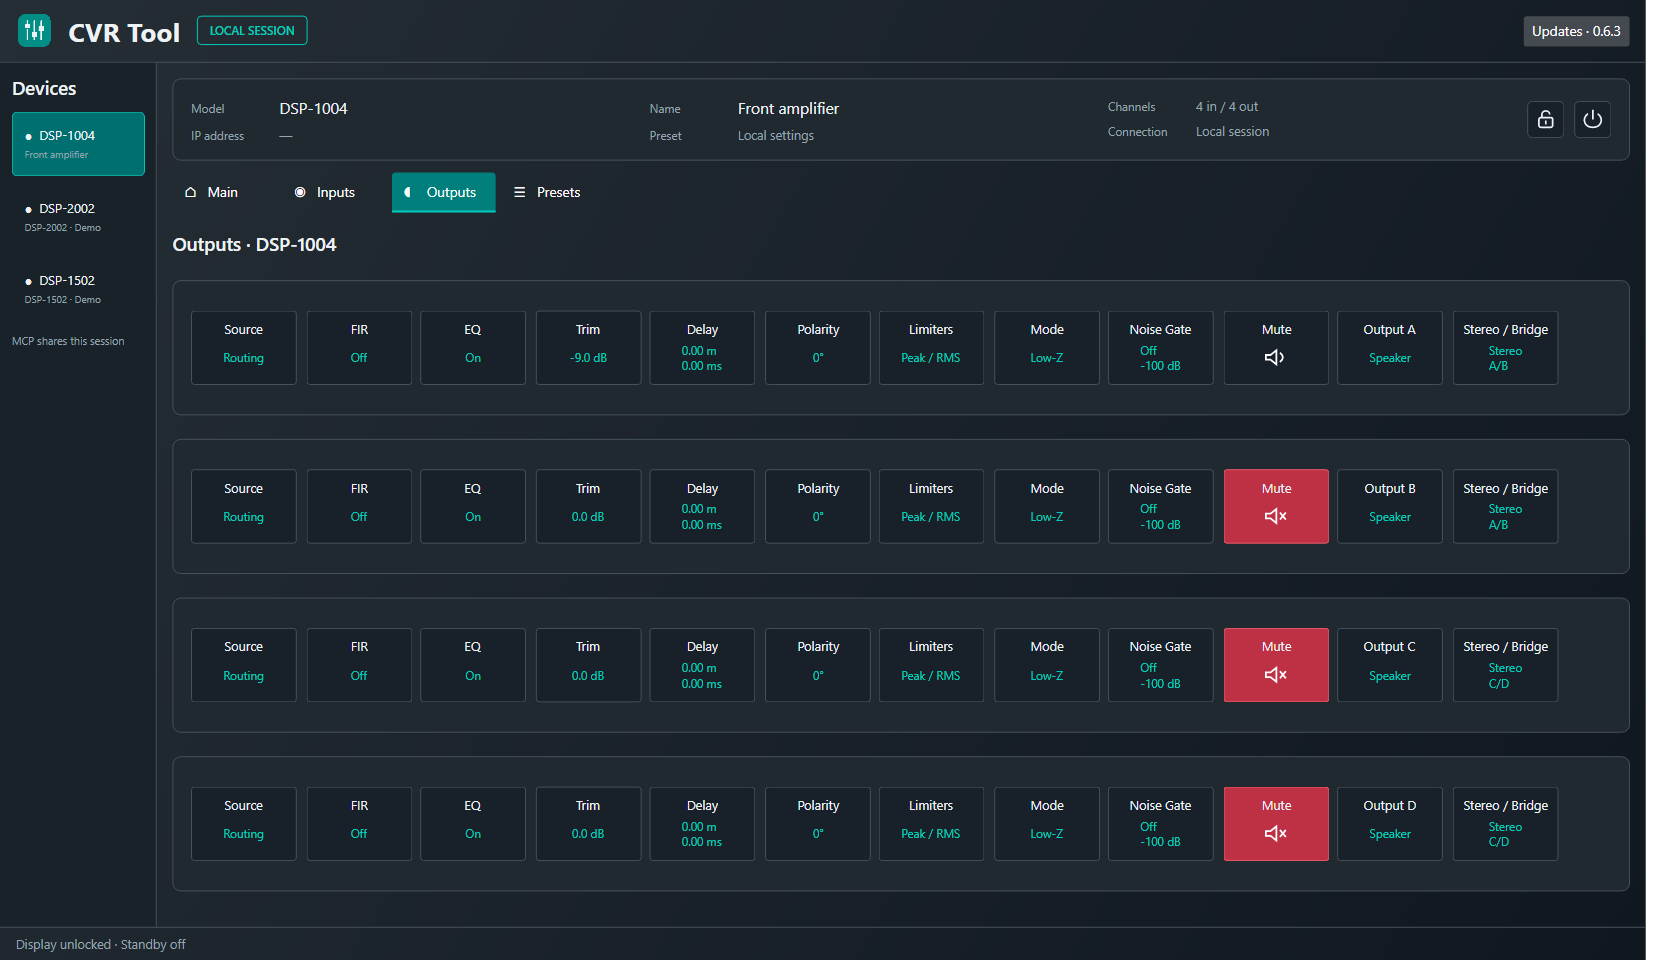
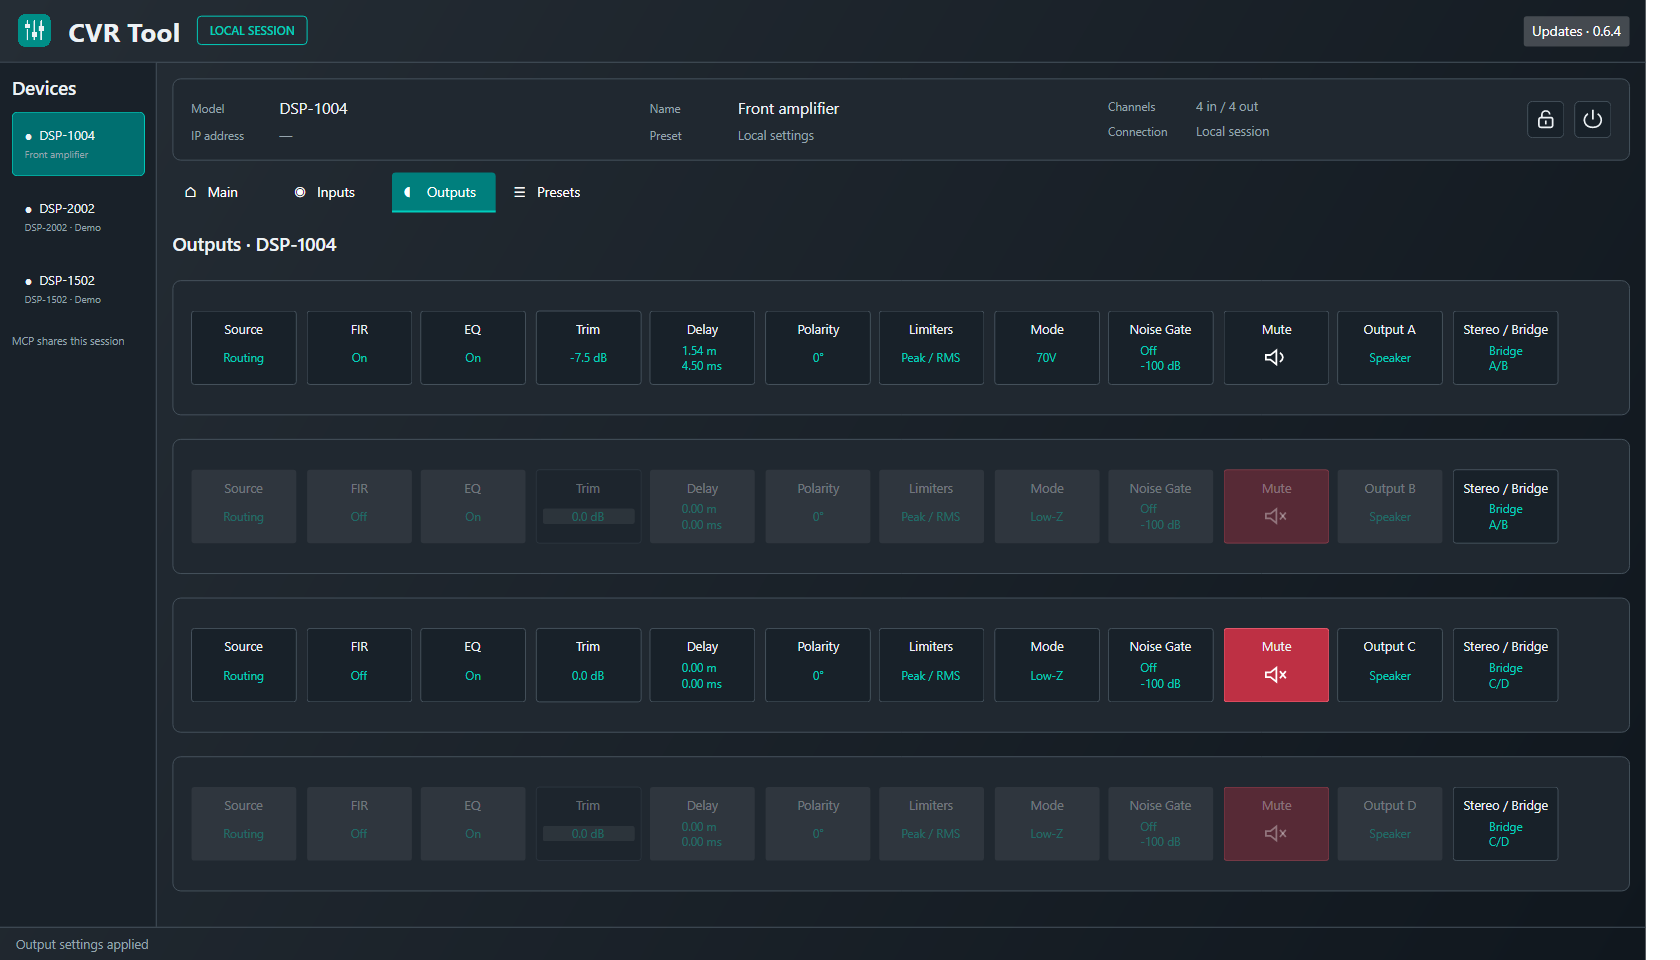
Toggle bridge directly and disable the paired follower output controls

diff --git a/tests/CvrTool.DesktopChecks/Program.cs b/tests/CvrTool.DesktopChecks/Program.cs
@@ -150,15 +150,22 @@ modeEditor.GetLogicalDescendants().OfType<Button>().Single(b=>b.Tag?.ToString()=
 var dynamicsPreset=Preset();Check(dynamicsPreset.Dynamics![0].LoadMode==1 && dynamicsPreset.Dynamics[1].LoadMode==0 && !dynamicsPreset.Dynamics[0].Bridged,"Mode edits affect one output without switching bridge");
 Click("◖   Outputs");
 Check(Math.Abs(Tagged<Border>("output-trim-A").Bounds.Height-76)<.1 && Math.Abs(Tagged<ToggleButton>("mute-editor-A").Bounds.Height-76)<.1 && Math.Abs(Tagged<ToggleButton>("mute-editor-A").Bounds.Width-Tagged<Button>("output-mode-A").Bounds.Width)<1.1,"Trim and symbol-only mute align with the output blocks");
-Press(Tagged<Button>("output-bridge-A"));var bridgeEditor=window.OwnedWindows.Single();Press(Tagged<Button>("output-bridge-B"));
-Check(window.OwnedWindows.Count==1 && ReferenceEquals(bridgeEditor,window.OwnedWindows.Single()),"A/B share one stereo/bridge editor");
-bridgeEditor.GetLogicalDescendants().OfType<ComboBox>().Single(c=>c.Tag?.ToString()=="output-bridge-choice").SelectedIndex=1;
-bridgeEditor.GetLogicalDescendants().OfType<Button>().Single(b=>b.Tag?.ToString()=="apply-output-bridge").RaiseEvent(new RoutedEventArgs(Avalonia.Controls.Button.ClickEvent));Layout();
+Press(Tagged<Button>("output-mode-B"));Check(window.OwnedWindows.Count==1,"Secondary output editor can be opened in stereo");
+Press(Tagged<Button>("output-bridge-A"));
+Check(window.OwnedWindows.Count==0,"Bridge toggles directly without a popup and closes the follower editor");
 var bridgePreset=Preset();Check(bridgePreset.Dynamics![0].Bridged && bridgePreset.Dynamics[1].Bridged && !bridgePreset.Dynamics[2].Bridged && bridgePreset.Dynamics[0].LoadMode==1,"Bridge updates A/B together, preserves C/D and retains load mode");
-Click("◖   Outputs");Press(Tagged<Button>("output-bridge-D"));bridgeEditor=window.OwnedWindows.Single();
-bridgeEditor.GetLogicalDescendants().OfType<ComboBox>().Single(c=>c.Tag?.ToString()=="output-bridge-choice").SelectedIndex=1;
-bridgeEditor.GetLogicalDescendants().OfType<Button>().Single(b=>b.Tag?.ToString()=="apply-output-bridge").RaiseEvent(new RoutedEventArgs(Avalonia.Controls.Button.ClickEvent));Layout();
-Check(Preset().Dynamics!.All(d=>d.Bridged),"C/D stereo/bridge editor operates its own pair");
+Click("◖   Outputs");
+bool OutputControlsEnabled(string channel)=>Tagged<Grid>("output-flow-"+channel).Children.Where(c=>Grid.GetColumn(c)<11).All(c=>c.IsEnabled && c.Opacity==1);
+bool OutputControlsDisabled(string channel)=>Tagged<Grid>("output-flow-"+channel).Children.Where(c=>Grid.GetColumn(c)<11).All(c=>!c.IsEnabled && c.Opacity<.5);
+Check(OutputControlsDisabled("B") && OutputControlsEnabled("A") && OutputControlsEnabled("C") && OutputControlsEnabled("D"),"Bridge greys and disables only the second output in A/B");
+Check(Tagged<Button>("output-bridge-B").IsEnabled,"Follower bridge switch remains clickable");
+Press(Tagged<Button>("output-bridge-B"));
+Check(window.OwnedWindows.Count==0 && OutputControlsEnabled("B"),"Clicking the follower bridge switch restores stereo and its controls without a popup");
+Check(!Preset().Dynamics![0].Bridged,"Direct bridge toggle restores the paired stereo state");
+Click("◖   Outputs");Press(Tagged<Button>("output-bridge-A"));Press(Tagged<Button>("output-bridge-D"));
+Check(OutputControlsDisabled("B") && OutputControlsDisabled("D") && OutputControlsEnabled("A") && OutputControlsEnabled("C"),"A/B and C/D independently disable their second outputs");
+Check(window.OwnedWindows.Count==0,"Neither bridge pair opens a popup");Save("outputs-bridge-followers");
+Check(Preset().Dynamics!.All(d=>d.Bridged),"C/D stereo/bridge switch operates its own pair");
 Click("◖   Outputs");
 Tagged<ToggleButton>("mute-editor-A").IsChecked=true;Layout();
 Check(Preset().Outputs[0].Muted,"Styled output mute still commits immediately");

diff --git a/src/CvrTool.Desktop/OutputDynamicsEditors.cs b/src/CvrTool.Desktop/OutputDynamicsEditors.cs
@@ -45,30 +45,23 @@ public sealed partial class MainWindow
         ShowInputEditor(editor, editedId, channel, "mode");
     }
 
-    private void OpenBridgeEditor(int channel)
+    private void ToggleBridge(int channel)
     {
         var pairStart = (channel - 1) / 2 * 2 + 1;
-        var editedId = deviceId;
-        if (ActivateInputEditor(editedId, pairStart, "bridge"))
-            return;
-        var original = service.GetOutputDynamics(editedId, pairStart);
-        var panel = new StackPanel { Margin = new Thickness(24), Spacing = 16 };
-        panel.Children.Add(Heading($"Stereo / Bridge · Outputs {(char)('A' + pairStart - 1)}/{(char)('A' + pairStart)}"));
-        var choice = new ComboBox { ItemsSource = new[] { "Stereo", "Bridge" }, SelectedIndex = original.Bridged ? 1 : 0, HorizontalAlignment = HorizontalAlignment.Stretch, Tag = "output-bridge-choice" };
-        panel.Children.Add(choice);
-        panel.Children.Add(Text("Applies to both outputs in this pair.", 12, Muted));
-        var message = Text("", 12, Muted);
-        panel.Children.Add(message);
-        var actions = new StackPanel { Orientation = Orientation.Horizontal, Spacing = 10 };
-        var apply = new Button { Content = "Apply", Tag = "apply-output-bridge" };
-        var cancel = new Button { Content = "Cancel" };
-        actions.Children.Add(apply);
-        actions.Children.Add(cancel);
-        panel.Children.Add(actions);
-        var editor = EditorWindow("Output stereo / bridge", panel, 480, 310);
-        apply.Click += (_, _) => { try { CommitDynamics(new(editedId, pairStart, Bridged: choice.SelectedIndex == 1), original); editor.Close(); } catch (Exception ex) { message.Text = ex.Message; } };
-        cancel.Click += (_, _) => editor.Close();
-        ShowInputEditor(editor, editedId, pairStart, "bridge");
+        try
+        {
+            var current = service.GetOutputDynamics(deviceId, pairStart);
+            CommitDynamics(new(deviceId, pairStart, Bridged: !current.Bridged), current);
+        }
+        catch (Exception ex) { status.Text = ex.Message; }
+    }
+
+    // A bridge follower cannot retain an editable output window from stereo mode.
+    private void CloseBridgeFollowerEditors(int channel)
+    {
+        foreach (var entry in inputEditors.Where(e => e.Key.Device == deviceId && e.Key.Channel == channel &&
+            e.Key.Kind is "output-eq" or "output-delay" or "fir" or "mode" or "noise-gate" or "limiters").ToArray())
+            entry.Value.Close();
     }
 
     private void OpenNoiseGateEditor(int channel)

diff --git a/src/CvrTool.Desktop/OutputPage.cs b/src/CvrTool.Desktop/OutputPage.cs
@@ -66,7 +66,18 @@ public sealed partial class MainWindow
             AddColumn(row, Block("Output " + output.Name, "Speaker", "output-speaker-" + output.Name, () => { activeTab = "Main"; Render(); }), 10);
             var pairStart = (output.Number - 1) / 2 * 2 + 1;
             var pair = $"{(char)('A' + pairStart - 1)}/{(char)('A' + pairStart)}";
-            AddColumn(row, Block("Stereo / Bridge", (dynamics.Bridged ? "Bridge" : "Stereo") + "\n" + pair, "output-bridge-" + output.Name, () => OpenBridgeEditor(output.Number)), 11);
+            AddColumn(row, Block("Stereo / Bridge", (dynamics.Bridged ? "Bridge" : "Stereo") + "\n" + pair, "output-bridge-" + output.Name, () => ToggleBridge(output.Number)), 11);
+            var followsBridge = dynamics.Bridged && output.Number % 2 == 0;
+            if (followsBridge)
+            {
+                foreach (var control in row.Children.Where(c => Grid.GetColumn(c) < 11))
+                {
+                    control.IsEnabled = false;
+                    control.Opacity = .35;
+                    ToolTip.SetTip(control, $"Output {output.Name} follows {(char)('A' + pairStart - 1)} in bridge mode.");
+                }
+                CloseBridgeFollowerEditors(output.Number);
+            }
             panel.Children.Add(Card(row));
         }
         return panel;

diff --git a/README.md b/README.md
@@ -10,9 +10,9 @@ for two- and four-channel models.
 
 | Platform | Direct download | Start after extracting |
 | --- | --- | --- |
-| Windows x64 · Intel / AMD | [Download ZIP](https://github.com/Woodwarth/CVR-Tool/releases/download/v0.6.3/CVR-Tool-0.6.3-win-x64.zip) | `START-CVR-TOOL.cmd` |
-| Windows ARM64 · Snapdragon | [Download ZIP](https://github.com/Woodwarth/CVR-Tool/releases/download/v0.6.3/CVR-Tool-0.6.3-win-arm64.zip) | `START-CVR-TOOL.cmd` |
-| Mac · Apple Silicon | [Download archive](https://github.com/Woodwarth/CVR-Tool/releases/download/v0.6.3/CVR-Tool-0.6.3-osx-arm64.tar.gz) | `CVR Tool.app` |
+| Windows x64 · Intel / AMD | [Download ZIP](https://github.com/Woodwarth/CVR-Tool/releases/download/v0.6.4/CVR-Tool-0.6.4-win-x64.zip) | `START-CVR-TOOL.cmd` |
+| Windows ARM64 · Snapdragon | [Download ZIP](https://github.com/Woodwarth/CVR-Tool/releases/download/v0.6.4/CVR-Tool-0.6.4-win-arm64.zip) | `START-CVR-TOOL.cmd` |
+| Mac · Apple Silicon | [Download archive](https://github.com/Woodwarth/CVR-Tool/releases/download/v0.6.4/CVR-Tool-0.6.4-osx-arm64.tar.gz) | `CVR Tool.app` |
 
 [Latest release and checksums](https://github.com/Woodwarth/CVR-Tool/releases/latest).
 Extract the entire package. The runtime is included; no SDK or additional

diff --git a/docs/validation.md b/docs/validation.md
@@ -1,4 +1,4 @@
-# Validation — version 0.6.3
+# Validation — version 0.6.4
 
 Windows x64 / .NET SDK 10.0.403:
 
@@ -8,7 +8,7 @@ Windows x64 / .NET SDK 10.0.403:
 - 93 network checks: independent loopback gate/limiter payloads and aggregate
   readback, bridge pair addressing, active-low flags, immutable limits, explicit
   readback rejection, FIR fragmentation and existing network/session checks.
-- 118 desktop checks: per-output Low-Z/70V/100V editor, shared tiles/headings, A/B and C/D bridge editors, matched Trim/Mute blocks, gate On/Off and dB, both limiter
+- 125 desktop checks: per-output Low-Z/70V/100V editor, shared tiles/headings, direct A/B and C/D bridge switching, follower disabling and editor closure, matched Trim/Mute blocks, gate On/Off and dB, both limiter
   sections, automatic timing, single editor activation and existing UI behavior.
 - Shared-session stdio MCP verifies mode, gate, RMS/peak, full presets and
   previous channel/routing/input/output operations through two shared clients.

diff --git a/docs/mcp.md b/docs/mcp.md
@@ -49,7 +49,10 @@ for compatibility with isolated test clients and does not share GUI state.
   Enabled selects the limiter; MaximumVolts is read-only and bounds thresholds.
   LoadMode affects only the selected output. The Bridged field remains
   separate and affects an A/B or C/D pair, matching the end-of-row Stereo/Bridge
-  editor in Outputs.
+  switch in Outputs.
+  In the Outputs UI, bridge followers B/D are greyed and cannot be edited;
+  the pair switch stays active. This presentation does not add backend/MCP
+  restrictions or copy settings between outputs.
   Native bridge-coded modes 3–5 are preserved when read, but cannot be requested
   as new LoadMode edits. Older JSON without LoadMode preserves the active mode.
 

diff --git a/CHANGELOG.md b/CHANGELOG.md
@@ -1,5 +1,14 @@
 # Changelog
 
+## 0.6.4
+
+- Stereo/Bridge switches directly with one click; no popup or Apply step.
+- In bridge mode, the second output of the pair (B or D) has greyed, disabled
+  function tiles. The pair switch stays enabled to return to Stereo.
+- Existing output editors for the follower close when bridge becomes active.
+- Returning to Stereo restores editing without changing stored channel settings.
+
+
 ## 0.6.3
 
 - Outputs uses equal-size function tiles with one shared heading/value layout.
